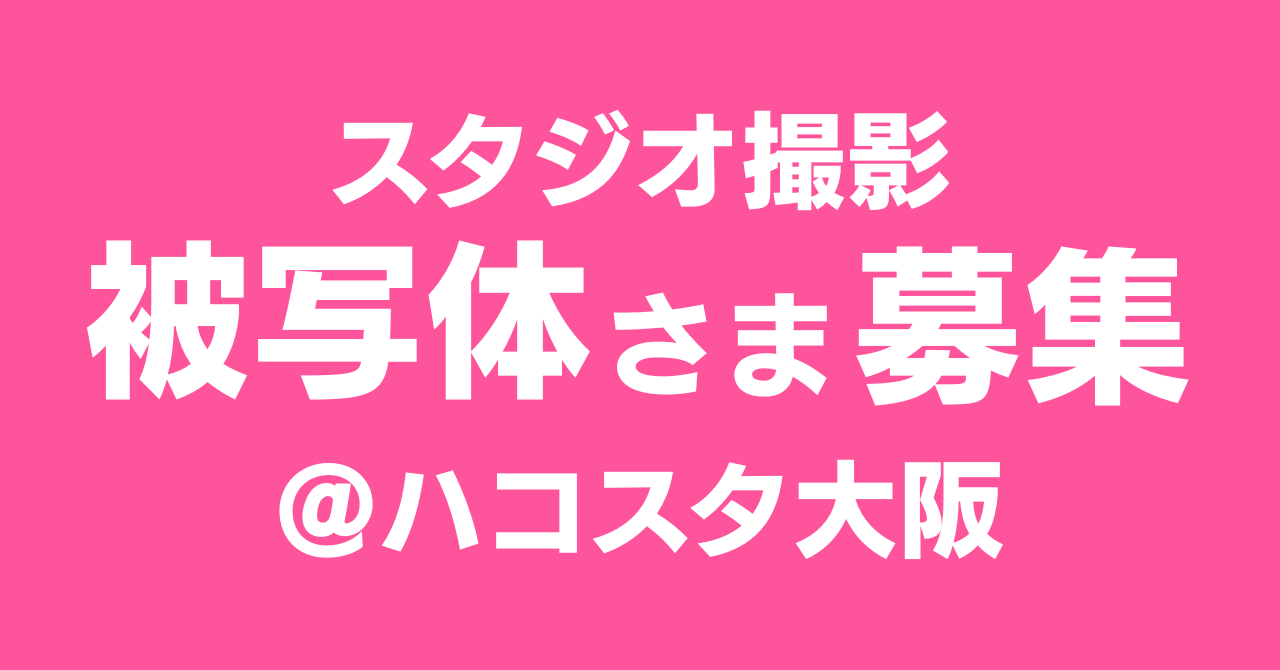
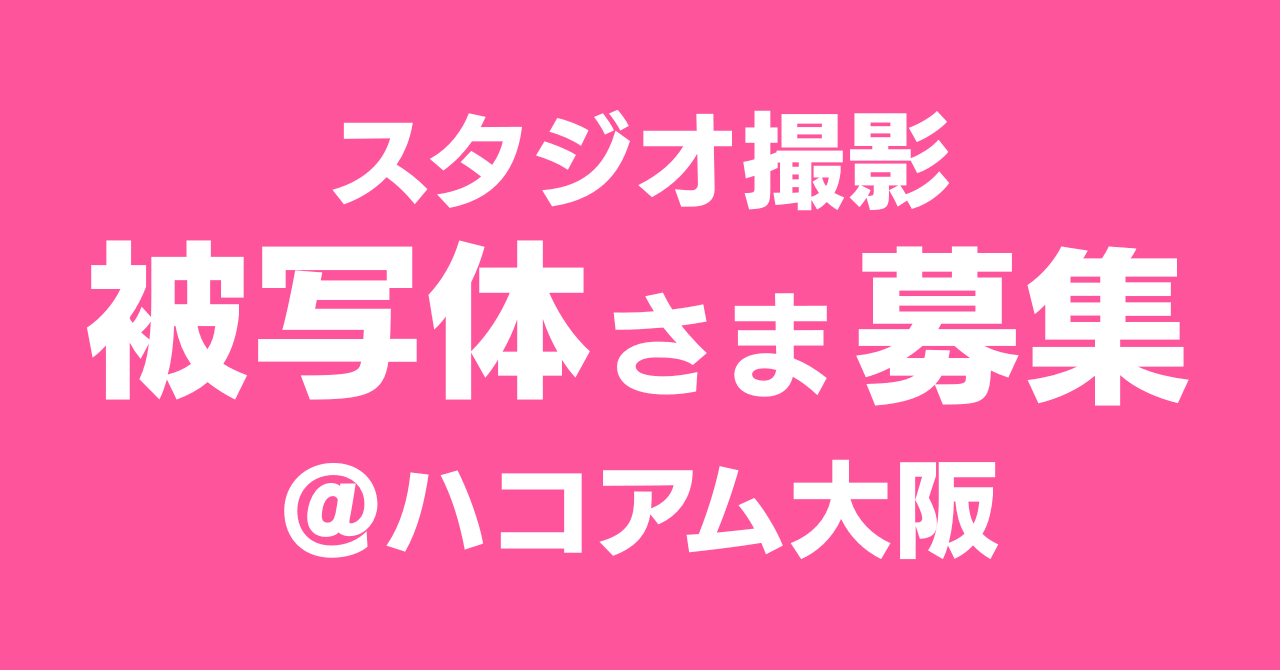
Rename Hako Studio Osaka recruitment to Hakoamu

Changed region(s): [[0.4375, 0.6866, 0.7812, 0.8358], [0.2188, 0.6866, 0.375, 0.8358]]

diff --git a/docs/posts/2026/102004/index.html b/docs/posts/2026/102004/index.html
@@ -15,8 +15,8 @@
 
 
 
-    <title>【10/23・30】ハコスタ大阪 被写体募集 &middot; にじてくと</title>
-    <meta name="title" content="【10/23・30】ハコスタ大阪 被写体募集 &middot; にじてくと">
+    <title>【10/23・30】ハコアム大阪 被写体募集 &middot; にじてくと</title>
+    <meta name="title" content="【10/23・30】ハコアム大阪 被写体募集 &middot; にじてくと">
 
 
 
@@ -31,7 +31,7 @@
 
 
 
-    <meta name="description" content="2026年10月23日・30日にハコスタ大阪で撮影に参加いただける被写体様を募集しています。作品・キャラクター不問、FF外の方も歓迎です。">
+    <meta name="description" content="2026年10月23日・30日にハコアム大阪で撮影に参加いただける被写体様を募集しています。作品・キャラクター不問、FF外の方も歓迎です。">
 
 
 
@@ -47,8 +47,8 @@
 
   <meta property="og:url" content="https://cp.t98.info/posts/2026/102004/">
 	<meta property="og:site_name" content="にじてくと">
-	<meta property="og:title" content="【10/23・30】ハコスタ大阪 被写体募集">
-	<meta property="og:description" content="2026年10月23日・30日にハコスタ大阪で撮影に参加いただける被写体様を募集しています。作品・キャラクター不問、FF外の方も歓迎です。">
+	<meta property="og:title" content="【10/23・30】ハコアム大阪 被写体募集">
+	<meta property="og:description" content="2026年10月23日・30日にハコアム大阪で撮影に参加いただける被写体様を募集しています。作品・キャラクター不問、FF外の方も歓迎です。">
 	<meta property="og:locale" content="ja">
 	<meta property="og:type" content="article">
 		<meta property="article:section" content="posts">
@@ -59,8 +59,8 @@
 
 	<meta name="twitter:card" content="summary_large_image">
 	<meta name="twitter:image" content="https://cp.t98.info/posts/2026/102004/featured.png">
-	<meta name="twitter:title" content="【10/23・30】ハコスタ大阪 被写体募集">
-	<meta name="twitter:description" content="2026年10月23日・30日にハコスタ大阪で撮影に参加いただける被写体様を募集しています。作品・キャラクター不問、FF外の方も歓迎です。">
+	<meta name="twitter:title" content="【10/23・30】ハコアム大阪 被写体募集">
+	<meta name="twitter:description" content="2026年10月23日・30日にハコアム大阪で撮影に参加いただける被写体様を募集しています。作品・キャラクター不問、FF外の方も歓迎です。">
 
 
 
@@ -226,9 +226,9 @@
     "@context": "https://schema.org",
     "@type": "Article",
     "articleSection": "お知らせ",
-    "name": "【10\/23・30】ハコスタ大阪 被写体募集",
-    "headline": "【10\/23・30】ハコスタ大阪 被写体募集",
-    "description": "2026年10月23日・30日にハコスタ大阪で撮影に参加いただける被写体様を募集しています。作品・キャラクター不問、FF外の方も歓迎です。",
+    "name": "【10\/23・30】ハコアム大阪 被写体募集",
+    "headline": "【10\/23・30】ハコアム大阪 被写体募集",
+    "description": "2026年10月23日・30日にハコアム大阪で撮影に参加いただける被写体様を募集しています。作品・キャラクター不問、FF外の方も歓迎です。",
     "inLanguage": "ja",
     "url" : "https://cp.t98.info/posts/2026/102004/",
     "author" : {
@@ -903,7 +903,7 @@
 
   <li class="hidden">
     <a class="hover:underline decoration-neutral-300 dark:underline-neutral-600" href="/posts/2026/102004/"
-      >【10/23・30】ハコスタ大阪 被写体募集</a
+      >【10/23・30】ハコアム大阪 被写体募集</a
     ><span class="px-1 text-primary-500">/</span>
   </li>
 
@@ -912,7 +912,7 @@
 
 
       <h1 class="mt-0 text-4xl font-extrabold text-neutral-900 dark:text-neutral">
-        【10/23・30】ハコスタ大阪 被写体募集
+        【10/23・30】ハコアム大阪 被写体募集
       </h1>
       <div class="mt-1 mb-6 text-base text-neutral-500 dark:text-neutral-400 print:hidden">
 
@@ -1025,7 +1025,7 @@
 
 
         <div class="article-content max-w-prose mb-20">
-          <p>ハコスタ大阪で撮影に参加いただける被写体様を募集しています。FF外の方、作品・キャラクターを問わず歓迎です。あわせでの参加も可能です。</p>
+          <p>ハコアム大阪で撮影に参加いただける被写体様を募集しています。FF外の方、作品・キャラクターを問わず歓迎です。あわせでの参加も可能です。</p>
 
 <h2 class="relative group">日程候補
     <div id="日程候補" class="anchor"></div>
@@ -1047,7 +1047,7 @@
     <div id="場所" class="anchor"></div>
 
 </h2>
-<p>ハコスタ大阪</p>
+<p>ハコアム大阪</p>
 
 <h2 class="relative group">スタジオ代
     <div id="スタジオ代" class="anchor"></div>

diff --git a/docs/posts/index.html b/docs/posts/index.html
@@ -1015,7 +1015,7 @@
     <div class="flex-none relative overflow-hidden  thumbnail-shadow md:mr-7 thumbnail">
       <img
         src="/posts/2026/102004/featured.png"
-        alt="【10/23・30】ハコスタ大阪 被写体募集"
+        alt="【10/23・30】ハコアム大阪 被写体募集"
         loading="lazy"
         decoding="async"
         fetchpriority="low"
@@ -1031,7 +1031,7 @@
 
         class="not-prose before:absolute before:inset-0 decoration-primary-500 dark:text-neutral text-xl font-bold text-neutral-800 hover:underline hover:underline-offset-2">
         <h2>
-          【10/23・30】ハコスタ大阪 被写体募集
+          【10/23・30】ハコアム大阪 被写体募集
 
         </h2>
       </a>

diff --git a/docs/categories/recruit/index.html b/docs/categories/recruit/index.html
@@ -940,7 +940,7 @@
     <div class="flex-none relative overflow-hidden  thumbnail-shadow md:mr-7 thumbnail">
       <img
         src="/posts/2026/102004/featured.png"
-        alt="【10/23・30】ハコスタ大阪 被写体募集"
+        alt="【10/23・30】ハコアム大阪 被写体募集"
         loading="lazy"
         decoding="async"
         fetchpriority="low"
@@ -956,7 +956,7 @@
 
         class="not-prose before:absolute before:inset-0 decoration-primary-500 dark:text-neutral text-xl font-bold text-neutral-800 hover:underline hover:underline-offset-2">
         <h2>
-          【10/23・30】ハコスタ大阪 被写体募集
+          【10/23・30】ハコアム大阪 被写体募集
 
         </h2>
       </a>

diff --git a/docs/categories/お知らせ/index.html b/docs/categories/お知らせ/index.html
@@ -834,7 +834,7 @@
     <div class="flex-none relative overflow-hidden  thumbnail-shadow md:mr-7 thumbnail">
       <img
         src="/posts/2026/102004/featured.png"
-        alt="【10/23・30】ハコスタ大阪 被写体募集"
+        alt="【10/23・30】ハコアム大阪 被写体募集"
         loading="lazy"
         decoding="async"
         fetchpriority="low"
@@ -850,7 +850,7 @@
 
         class="not-prose before:absolute before:inset-0 decoration-primary-500 dark:text-neutral text-xl font-bold text-neutral-800 hover:underline hover:underline-offset-2">
         <h2>
-          【10/23・30】ハコスタ大阪 被写体募集
+          【10/23・30】ハコアム大阪 被写体募集
 
         </h2>
       </a>

diff --git a/docs/index.html b/docs/index.html
@@ -1006,7 +1006,7 @@ body{
       style="--thumbnail-aspect-ratio: 1.5">
       <img
         src="/posts/2026/102004/featured.png"
-        alt="【10/23・30】ハコスタ大阪 被写体募集"
+        alt="【10/23・30】ハコアム大阪 被写体募集"
         loading="lazy"
         decoding="async"
         fetchpriority="low"
@@ -1023,7 +1023,7 @@ body{
 
         class="not-prose before:absolute before:inset-0 decoration-primary-500 dark:text-neutral text-xl font-bold text-neutral-800 hover:underline hover:underline-offset-2">
         <h2>
-          【10/23・30】ハコスタ大阪 被写体募集
+          【10/23・30】ハコアム大阪 被写体募集
 
         </h2>
       </a>

diff --git a/layouts/shortcodes/studio-recruitments.html b/layouts/shortcodes/studio-recruitments.html
@@ -4,7 +4,7 @@
 {{- $currentTime := now -}}
 {{- $venues := slice
   (dict "name" "横浜クロスタ" "dates" "10/23・24・25・31" "href" "https://x.com/98tml/status/2111947613260152972" "external" true "expires" $yokohamaExpires)
-  (dict "name" "ハコスタ大阪" "dates" "10/23・30" "href" "/posts/2026/102004/" "expires" $hakosutaExpires)
+  (dict "name" "ハコアム大阪" "dates" "10/23・30" "href" "/posts/2026/102004/" "expires" $hakosutaExpires)
   (dict "name" "四谷ベース" "dates" "10/23・27・28・30" "href" "/posts/2026/102003/" "expires" $yotsuyaExpires)
 -}}
 {{- $hasActiveVenue := false -}}

diff --git a/docs/eventlist/index.html b/docs/eventlist/index.html
@@ -961,7 +961,7 @@
             </li>
             <li>
               <a href="/posts/2026/102004/">
-                <span class="schedule-recruitments__name">ハコスタ大阪</span>
+                <span class="schedule-recruitments__name">ハコアム大阪</span>
                 <span class="schedule-recruitments__dates">10/23・30</span>
                 <svg class="schedule-recruitments__arrow" viewBox="0 0 24 24" fill="none" stroke="currentColor" stroke-width="1.8" stroke-linecap="round" stroke-linejoin="round" aria-hidden="true"><path d="m9 5 7 7-7 7"/></svg>
               </a>

diff --git a/docs/posts/2026/102003/index.html b/docs/posts/2026/102003/index.html
@@ -1166,7 +1166,7 @@
               class="flex text-neutral-700 hover:text-primary-600 dark:text-neutral dark:hover:text-primary-400"
               href="/posts/2026/102004/">
               <span class="leading-6">
-                <span class="inline-block rtl:rotate-180">&larr;</span>&ensp;【10/23・30】ハコスタ大阪 被写体募集
+                <span class="inline-block rtl:rotate-180">&larr;</span>&ensp;【10/23・30】ハコアム大阪 被写体募集
               </span>
             </a>
 
